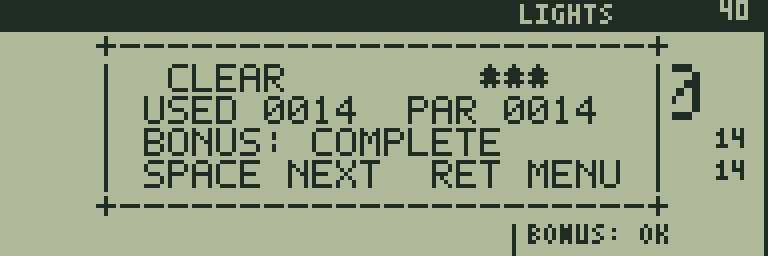
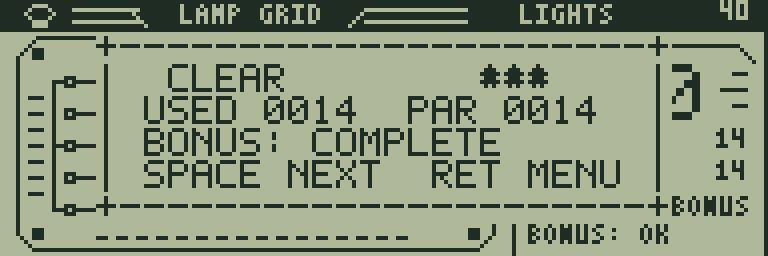
Style LAMP GRID as a control panel with a bonus legend

diff --git a/games/lamp-grid/hud.py b/games/lamp-grid/hud.py
@@ -1,7 +1,7 @@
 # SPDX-License-Identifier: MIT
 from hud_layouts import b, w, n, setup, status
 
-# Plain side rules leave the small count label clear of the frame decoration.
+# Values retain the shared layout; the game paints its own control-panel art.
 SPEC = setup(0, 'panel', 'LIGHTS', [
     n('LIT', b('grid_stat')),
     n('USED', w('challenge_moves'), 4),
@@ -11,3 +11,56 @@ SPEC = setup(0, 'panel', 'LIGHTS', [
     'CLRB\nBRA @done\n@full:\nLDAB #1\n@done:\nCLRA',
     ['BONUS: MISSING', 'BONUS: OK'],
 ))
+
+
+def panel_art(faces):
+    from art import Bitmap
+    from visual_art import tiny, poly
+    art=Bitmap()
+    art.rect(0,0,192,8,1,True)
+    tiny(art,'LAMP GRID',45,1,0)
+    tiny(art,SPEC['brand'],130,1,0)
+    # Header wiring and a tiny lamp emblem.
+    poly(art,[(8,1),(11,1),(13,3),(11,5),(8,5),(6,3),(8,1)],0)
+    art.line(8,6,11,6,0)
+    for y in (2,5):
+        art.line(18,y,34,y,0);art.line(91,y,116,y,0)
+    art.line(32,2,36,6,0);art.line(91,2,87,6,0)
+    # Chamfered board housing, mounting screws and traces into each row.
+    poly(art,[(9,9),(118,9),(123,14),(123,58),(119,62),(8,62),(4,58),(4,14),(9,9)])
+    for x in (9,118):
+        for y in (13,58):
+            art.rect(x-1,y-1,3,3);art.dot(x,y)
+    for row in range(5):
+        y=20+row*8
+        art.line(19,y,23,y);art.rect(16,y-1,3,3)
+        art.line(104,y,108,y);art.rect(109,y-1,3,3)
+    art.line(13,20,13,52);art.line(115,20,115,52)
+    for y in (20,36,52):
+        art.line(13,y,16,y);art.line(111,y,115,y)
+    # Small connector pins and ventilation slots fill the side and lower rails.
+    for y in range(24,50,4):
+        art.line(7,y,10,y);art.line(118,y,121,y)
+    for x in range(24,102,5):art.line(x,59,x+2,59)
+    for x in (27,43,59,75,91):
+        art.line(x,12,x+6,12);art.dot(x+7,13)
+    # Meter brackets leave clear space around the count and its LIT label.
+    art.line(128,8,128,63);art.line(191,8,191,63)
+    tiny(art,SPEC['fields'][0]['label'],133,9)
+    art.line(151,11,184,11);art.line(184,11,188,15)
+    for y,length in ((18,3),(22,6),(26,3)):
+        art.line(133,y,133+length,y);art.line(186-length,y,186,y)
+    for i,field in enumerate(SPEC['fields'][1:],4):
+        tiny(art,field['label'],133,i*8+1)
+        art.line(133,i*8+7,151,i*8+7);art.line(154,i*8+7,158,i*8+7)
+    # Match both appearances of a bonus lamp, with a blank row above and below.
+    for left,face in ((132,faces[2]),(148,faces[3])):
+        for y,source_y in enumerate((0,1,3,4,6,7),49):
+            for x,pixel in enumerate(face.p[source_y]):art.dot(left+x,y,pixel)
+    tiny(art,'BONUS',168,49)
+    # Dynamic fields and all playable tiles must remain free of static artwork.
+    for y in range(16,56):
+        assert not any(art.p[y][24:104])
+    for x,y,width,height in ((143,16,33,16),(171,32,16,8),(171,40,16,8),(132,56,56,8)):
+        assert not any(art.p[Y][X] for Y in range(y,y+height) for X in range(x,x+width))
+    return art

diff --git a/games/lamp-grid/generate.py b/games/lamp-grid/generate.py
@@ -4,20 +4,26 @@ from pathlib import Path
 sys.path.insert(0,str(Path(__file__).resolve().parents[1]/'tools'))
 from grid_assets import assets, Bitmap, asm_bytes
 
-from puzzle_assets import campaign, level_records, challenge_data
+from puzzle_assets import campaign, level_records, challenge_data, pack
+from hud import panel_art
 root=Path(__file__).parent
 levels=campaign(root)
 sprites=[]
-for on in (0,1):
-    b=Bitmap(16,8);b.rect(1,0,14,8);b.rect(4,2,8,4,on,True)
-    sprites.append(b)
-for on in (0,1):
-    # Retain the rectangular lamp: filled when on, outlined when off.
-    # The inset diamond contrasts with the lamp in either state.
-    b=Bitmap(16,8);b.rect(1,0,14,8,1,bool(on))
-    for y,(left,right) in enumerate(((7,8),(6,9),(5,10),(5,10),(6,9),(7,8)),1):
-        b.line(left,y,right,y,1-on)
-    sprites.append(b)
+for target in (0,1):
+    for on in (0,1):
+        b=Bitmap(16,8)
+        # Rounded glass lenses, with contrasting reflections or an inset jewel.
+        for y,(left,right) in enumerate(((5,10),(3,12),(2,13),(1,14),(1,14),(2,13),(3,12),(5,10))):
+            b.line(left,y,right,y)
+        if not on:
+            for y,(left,right) in enumerate(((5,10),(3,12),(2,13),(2,13),(3,12),(5,10)),1):
+                b.line(left,y,right,y,0)
+        if target:
+            for y,(left,right) in enumerate(((7,8),(6,9),(5,10),(5,10),(6,9),(7,8)),1):
+                b.line(left,y,right,y,1-on)
+        else:
+            b.dot(5,2,1-on);b.dot(4,3,1-on)
+        sprites.append(b)
 for face in sprites[:4]:
     # Half-width faces rotate about the lamp's vertical center line.
     b=Bitmap(16,8)
@@ -25,5 +31,14 @@ for face in sprites[:4]:
         for x in range(8):b.dot(x+4,y,face.p[y][x*2+1 if x<4 else x*2])
     sprites.append(b)
 b=Bitmap(16,8);b.rect(7,0,2,8,1,True);sprites.append(b)
+cursor_offset=len(sprites)*2
+for face in sprites[:]:
+    b=Bitmap(16,8);b.p=[row[:] for row in face.p]
+    for x,X in ((0,2),(15,13)):
+        b.line(x,0,X,0);b.line(x,7,X,7)
+        b.line(x,0,x,2);b.line(x,5,x,7)
+    sprites.append(b)
 data=level_records([s['initial']['board'] for s in levels])+challenge_data(root,levels,5,2,1,5)
+data+=f'.equ LAMP_CURSOR_TILE_OFFSET,{cursor_offset}\n'
+data+=asm_bytes('lamp_panel_art',pack(panel_art(sprites).bytes()))
 assets(root,'LAMP GRID','lamp-grid',5,5,2,1,sprites,40,data)

diff --git a/games/lamp-grid/README.md b/games/lamp-grid/README.md
@@ -10,9 +10,9 @@
 
 ## 遊び方
 
-方向キーでマスを選び、SPACEでそのマスと上下左右のランプを、SEとともに1つずつ反転します。通常のランプは、黒い四角が点灯、枠だけが消灯です。菱形が入った2か所のマスが追加目標です。それぞれを直接選んでSPACEを押すと菱形が消えます。隣のマスから巻き込むだけでは回収できません。
+方向キーでマスを選び、SPACEでそのマスと上下左右のランプを、SEとともに1つずつ反転します。黒く塗られた丸いランプが点灯、輪郭だけのランプが消灯です。菱形が入った2か所のマスが追加目標です。右側の **BONUS** の凡例に、点灯・消灯それぞれの図柄を示しています。それぞれを直接選んでSPACEを押すと菱形が消えます。隣のマスから巻き込むだけでは回収できません。
 
-右側の **LIT** は点灯中のランプ数です。選択中のマスは白黒が反転します。
+右側の **LIT** は点灯中のランプ数です。選択中のランプは四隅のカーソルで囲みます。点灯・消灯の色は変わりません。
 
 RETURNメニューの UNDO で直前の反転を戻せます。
 
